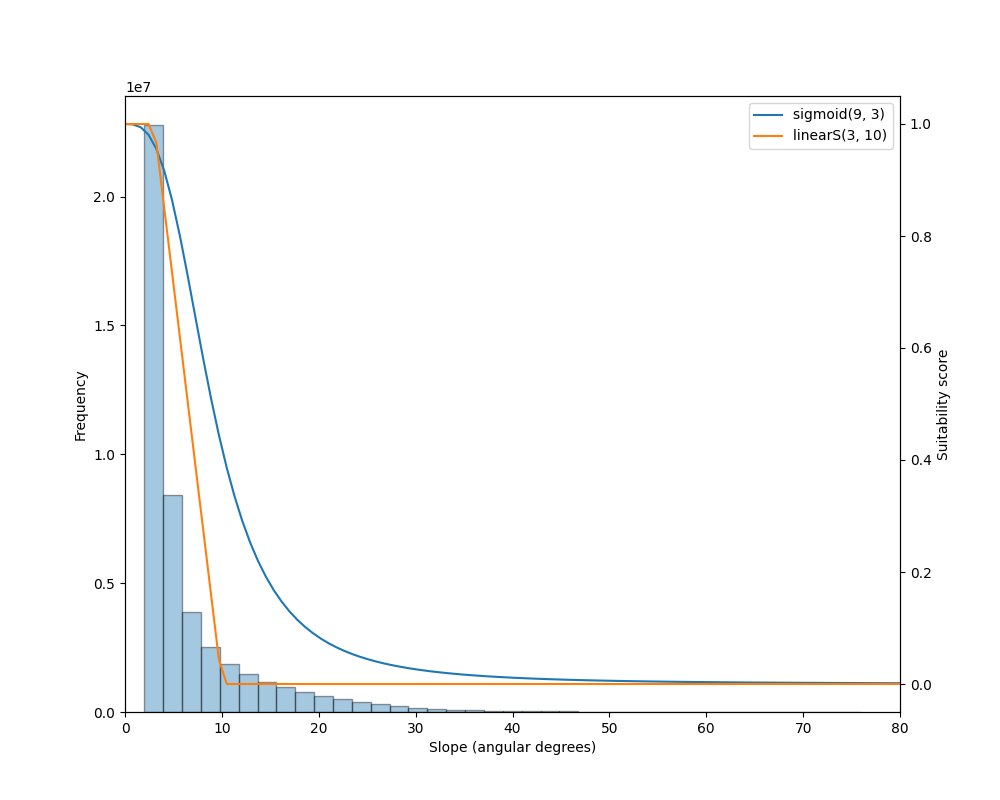
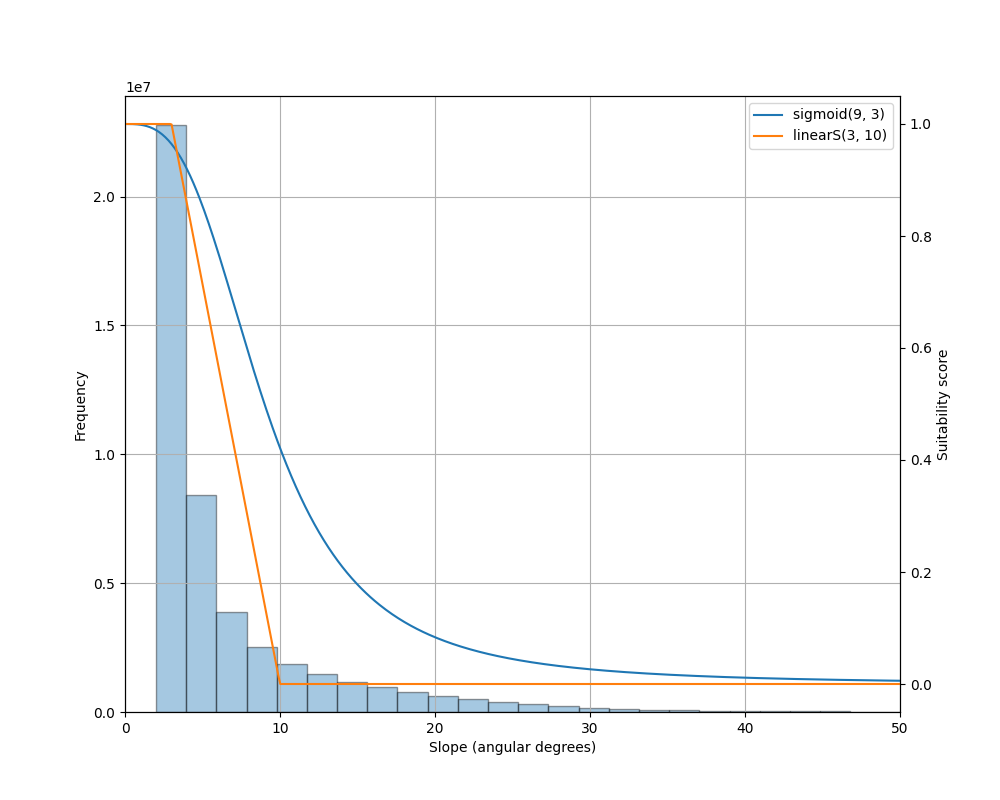
Refactor insolation and slope

diff --git a/other/std_func_vis/insolation.py b/other/std_func_vis/insolation.py
@@ -1,7 +1,6 @@
 from vis import sigmoid, gaussian, linearL
-import matplotlib.pyplot as plt
 import numpy as np
-import seaborn as sns
+import factor
 
 def main():
     # get by running hist_values.r
@@ -13,35 +12,21 @@ def main():
         1, 30, 241, 964, 2590, 6993, 11178, 11141, 11419, 12914, 11277, 16326, 21379, 24831, 19402, 23190, 23614, 45650, 42593, 40504, 54723, 29601, 5616
     ]
 
-    _, ax1 = plt.subplots(figsize=(10, 8))
-    sns.distplot(
-        breaks,
-        hist_kws={
-            "weights": counts,
-            "edgecolor": "black"
-        },
-        bins=len(breaks),
-        kde=False,
-        ax=ax1
-    )
-    ax1.set_xlim((1000, 21600))
-    ax1.set_ylabel('Frequency')
-    ax1.set_xlabel('Solar radiation (kWh/m$^2$/day)')
-    #plt.show()
-    ax2 = ax1.twinx()
-
+    xlim = (1000, 21600)
+    xlab = 'Solar radiation (kWh/m$^2$/day)'
     x = np.linspace(1000, 21600, 100)
+    outfile = 'insolation.png'
 
-    y1 = sigmoid(2 * 3600, -5)(x)
-    y2 = gaussian(6, 4, 3600)(x)
-    y3 = list(map(linearL(17691.42, 19875.58), x))
+    def plot(ax2):
+        y1 = sigmoid(2 * 3600, -5)(x)
+        y2 = gaussian(6, 4, 3600)(x)
+        y3 = list(map(linearL(17691.42, 19875.58), x))
 
-    ax2.plot(x, y1, label='sigmoid(2, -5)')
-    ax2.plot(x, y2, label='gaussian(6, 4)')
-    ax2.plot(x, y3, label='linearL(17691.42, 19875.58)')
-    ax2.set_ylabel('Suitability score')
-    plt.legend()
-    plt.savefig('insolation.png')
+        ax2.plot(x, y1, label='sigmoid(2, -5)')
+        ax2.plot(x, y2, label='gaussian(6, 4)')
+        ax2.plot(x, y3, label='linearL(17691.42, 19875.58)')
+
+    factor.main(breaks, counts, xlim, xlab, outfile, plot)
 
 
 if __name__ == '__main__':

diff --git a/other/std_func_vis/slope.py b/other/std_func_vis/slope.py
@@ -1,7 +1,6 @@
 from vis import sigmoid, linearS
-import matplotlib.pyplot as plt
 import numpy as np
-import seaborn as sns
+import factor
 
 def main():
     # get by running hist_values.r (remove the first value in breaks)
@@ -18,33 +17,18 @@ def main():
         285,134,75,56,4,1,
     ]
 
-    _, ax1 = plt.subplots(figsize=(10, 8))
-    sns.distplot(
-        breaks,
-        hist_kws={
-            "weights": counts,
-            "edgecolor": "black"
-        },
-        bins=len(breaks),
-        kde=False,
-        ax=ax1
-    )
-    ax1.set_xlim((0, 80))
-    ax1.set_ylabel('Frequency')
-    ax1.set_xlabel('Slope (angular degrees)')
-    #plt.show()
-    ax2 = ax1.twinx()
+    xlim = (0, 50)
+    xlab = 'Slope (angular degrees)'
+    x = np.linspace(0, 50, 500)
+    outfile = 'slope.png'
 
-    x = np.linspace(0, 80, 100)
+    def plot(ax2):
+        y1 = sigmoid(9, 3)(x)
+        y2 = list(map(linearS(3, 10), x))
+        ax2.plot(x, y1, label='sigmoid(9, 3)')
+        ax2.plot(x, y2, label='linearS(3, 10)')
 
-    y1 = sigmoid(9, 3)(x)
-    y2 = list(map(linearS(3, 10), x))
-
-    ax2.plot(x, y1, label='sigmoid(9, 3)')
-    ax2.plot(x, y2, label='linearS(3, 10)')
-    ax2.set_ylabel('Suitability score')
-    plt.legend()
-    plt.savefig('slope.png')
+    factor.main(breaks, counts, xlim, xlab, outfile, plot)
 
 
 if __name__ == '__main__':

diff --git a/other/std_func_vis/factor.py b/other/std_func_vis/factor.py
@@ -1,0 +1,35 @@
+from vis import sigmoid, gaussian, linearL
+import matplotlib.pyplot as plt
+import numpy as np
+import seaborn as sns
+
+def main(
+    breaks: 'list[int]',
+    counts: 'list[int]',
+    xlim: '(int, int)',
+    xlab: str,
+    outfile: str,
+    plot
+):
+    _, ax1 = plt.subplots(figsize=(10, 8))
+    sns.distplot(
+        breaks,
+        hist_kws={
+            "weights": counts,
+            "edgecolor": "black"
+        },
+        bins=len(breaks),
+        kde=False,
+        ax=ax1
+    )
+    ax1.set_xlim(xlim)
+    ax1.set_ylabel('Frequency')
+    ax1.set_xlabel(xlab)
+    plt.grid(b=True, which='both', axis='both')
+    ax2 = ax1.twinx()
+
+    plot(ax2)
+    ax2.set_ylabel('Suitability score')
+    plt.legend()
+    plt.savefig(outfile)
+
